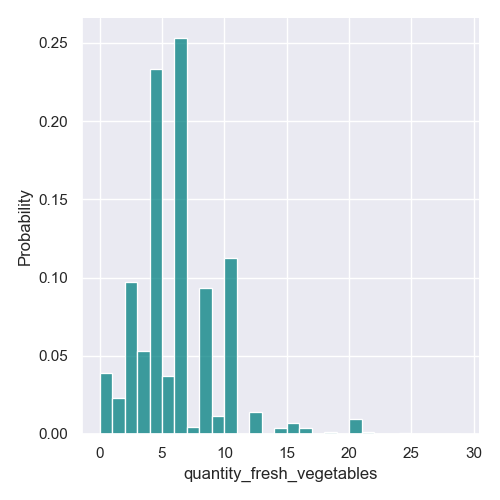
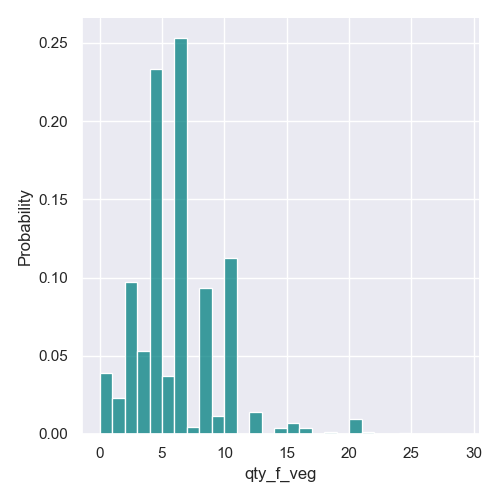
redraw all pics

Changed region(s): [[0.36, 0.93, 0.75, 0.99]]

diff --git a/main.py b/main.py
@@ -21,15 +21,15 @@ def problem_1():
     draw_ratio(data.evaluate_ratio)
     # histogram pics
     df = pd.read_csv("docs/processed_data.csv")
-    draw_histogram(df, "quantity_fresh_vegetables", [x for x in range(30)], "pics/fresh_vegtables.png")
+    draw_histogram(df, "qty_f_veg", [x for x in range(30)], "pics/fresh_vegtables.png")
     draw_histogram(df, "num_day_foods", 15, "pics/num_day_foods.png")
-    draw_histogram(df, "quantity_fresh_fruits", [x for x in range(16)], "pics/quantity_fresh_fruits.png")
-    draw_histogram(df, "quantity_dairy_products", [x for x in range(11)], "pics/dairy_products.png")
-    draw_histogram(df, "quantity_cereal", [x for x in range(6)], "pics/quantity_cereal.png")
-    draw_histogram(df, "quantity_lpfem", [x for x in range(25)], "pics/quantity_lpfem.png")
+    draw_histogram(df, "qty_f_fruits", [x for x in range(16)], "pics/quantity_fresh_fruits.png")
+    draw_histogram(df, "qty_d_prods", [x for x in range(11)], "pics/dairy_products.png")
+    draw_histogram(df, "qty_cereal", [x for x in range(6)], "pics/quantity_cereal.png")
+    draw_histogram(df, "qty_lpfem", [x for x in range(25)], "pics/quantity_lpfem.png")
     draw_histogram(df, "salt", [x for x in range(30)], "pics/salt.png")
     draw_histogram(df, "wine", [x for x in range(10)], "pics/wine.png")
-    draw_histogram(df, "quantity_beverage", [x for x in np.arange(0,1.2,0.05)], "pics/quantity_beverage.png")
+    draw_histogram(df, "qty_beverage", [x for x in np.arange(0,1.2,0.05)], "pics/quantity_beverage.png")
 
 
 # PROBLEM-2-CCA
